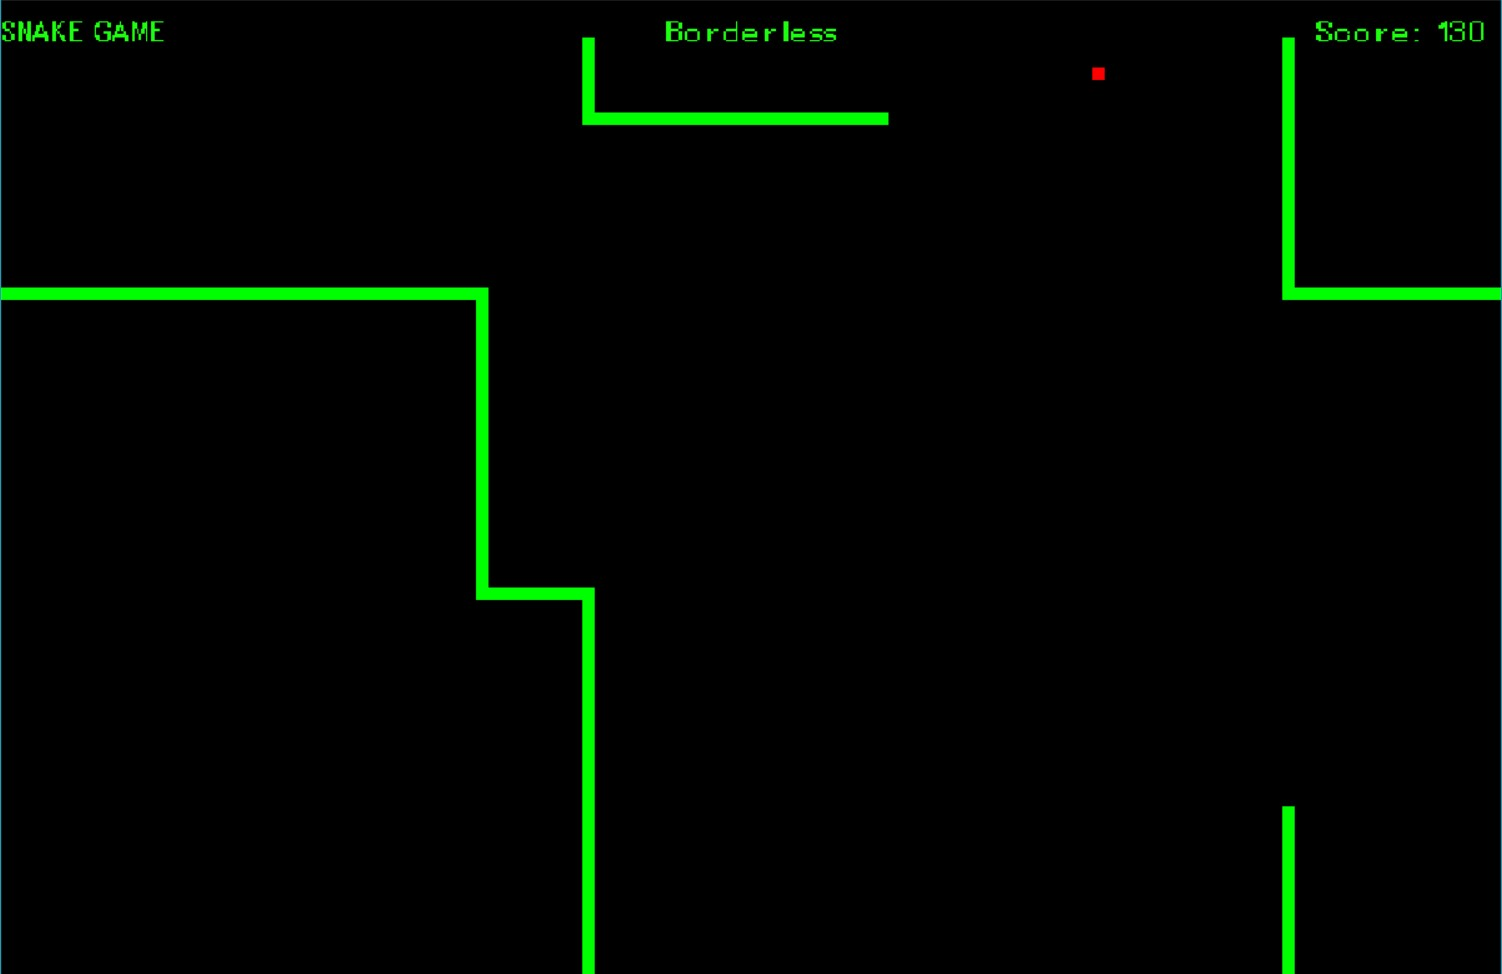
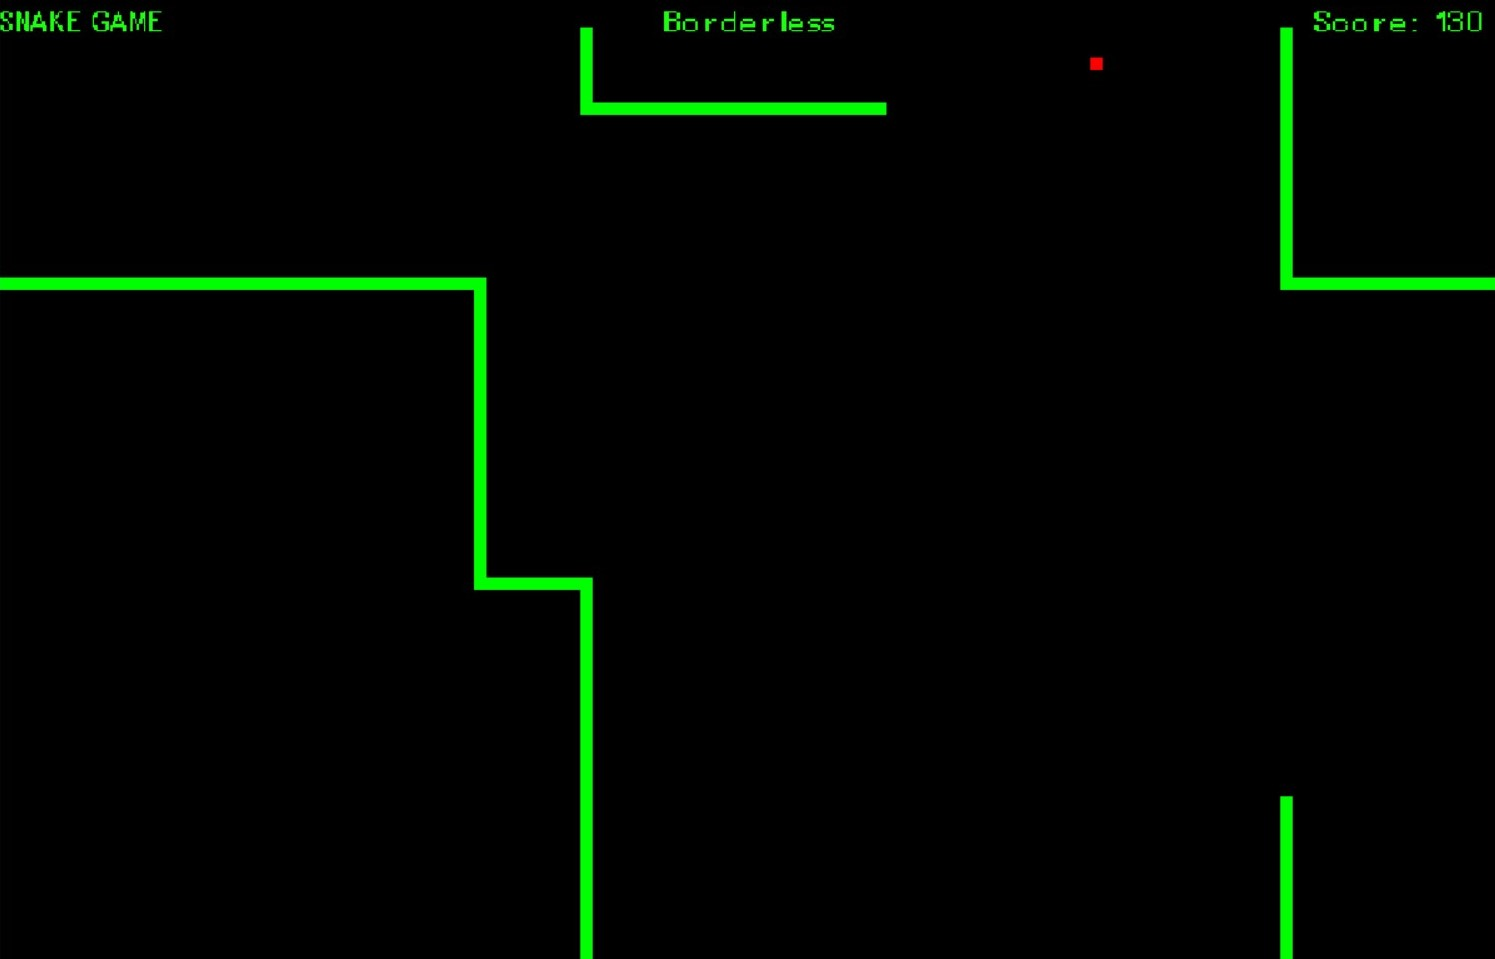
updated readme with images

diff --git a/readme.md b/readme.md
@@ -12,6 +12,7 @@ This repository contains the source code for a classic snake game developed usin
   - [Steps to Download and Set Up SDL2_ttf](#steps-to-download-and-set-up-sdl2_ttf)
   - [Building and Running the Game](#building-and-running-the-game)
   - [Folder Structure](#folder-structure)
+- [Screenshots](#screenshots)
 
 ## Game Features
 
@@ -87,3 +88,11 @@ Once compiled run the following command to launch the game.
 ```bash
 .\snake-game.exe
 
+## Screenshots
+![Intro Screen](/screenshots/intro%20screen.jpg)
+
+![Classic Mode](/screenshots/classic%20mode.jpg)
+
+![Borderless Mode](/screenshots/borderless.jpg)
+
+![Game Over!!!](/screenshots/gameover.jpg)
